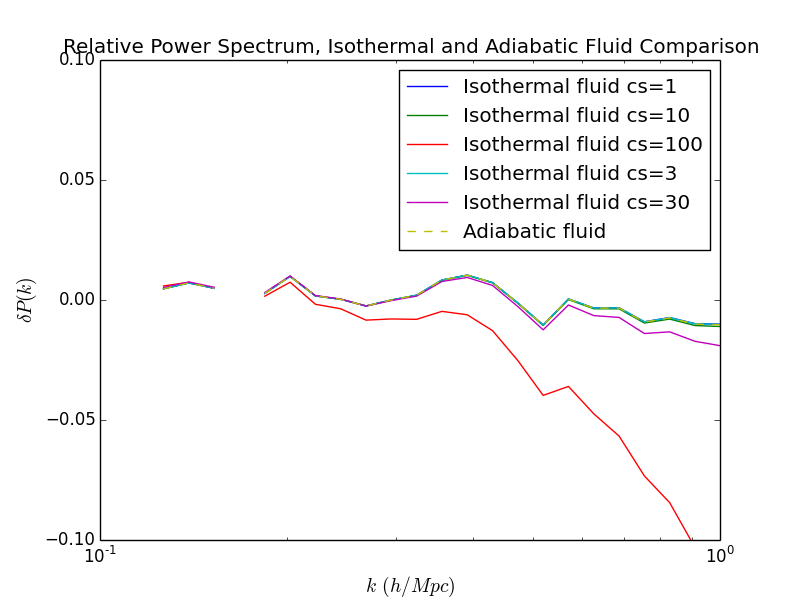
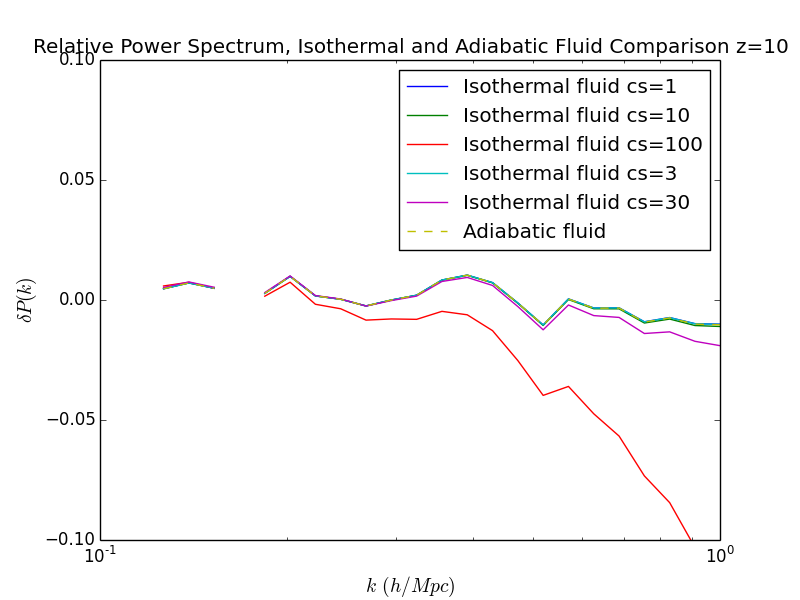
Updated title.

Changed region(s): [[0.0312, 0.06, 1.0, 0.09]]

diff --git a/plots/isothermal/isothermal_fluid_low_adiabatic_normalized_particle_z10.py b/plots/isothermal/isothermal_fluid_low_adiabatic_normalized_particle_z10.py
@@ -35,7 +35,7 @@ plt.xlim([1e-1,1e0])
 plt.ylim([-0.1,0.1])
 plt.xlabel('$k \, (h/Mpc)$', fontsize=14)
 plt.ylabel('$\delta P(k)$', fontsize=14)
-plt.title('Relative Power Spectrum, Isothermal and Adiabatic Fluid Comparison')
+plt.title('Relative Power Spectrum, Isothermal and Adiabatic Fluid Comparison z=10')
 plt.legend(numpoints=1, loc='best')
 plt.savefig('isothermal_fluid_low_adiabatic_normalized_particle_z10.png')
 
